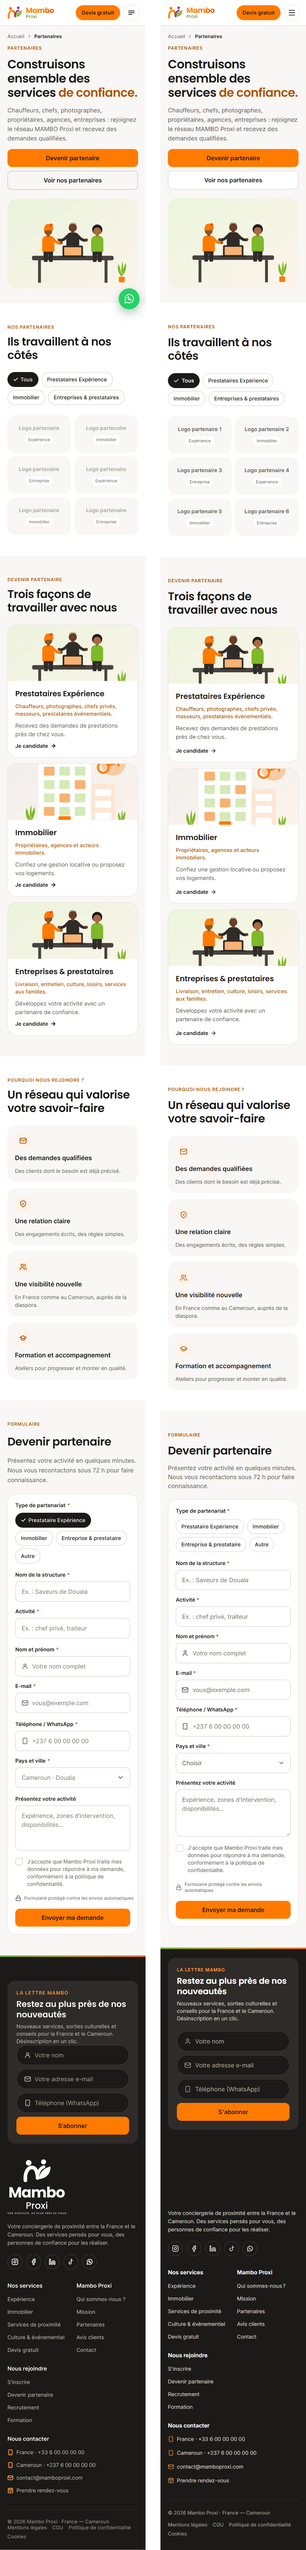
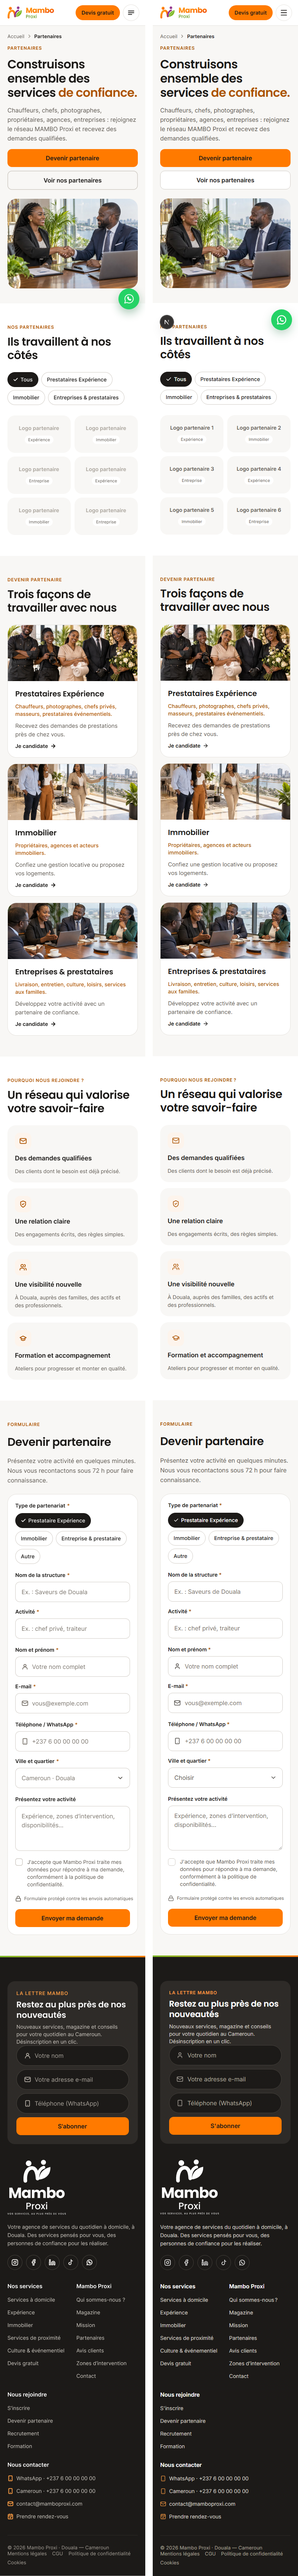
feat(partenaires): photos du héros et des types de partenariat, visibilité à Douala, version anglaise

Changed region(s): [[0.0, 0.0, 1.0, 1.0], [0.25, 0.8736, 0.375, 0.936], [0.4062, 0.5616, 0.4375, 0.5928]]

diff --git a/src/mocks/data/pages.ts b/src/mocks/data/pages.ts
@@ -691,7 +691,13 @@ const partenaires: Page = {
       eyebrow: 'Partenaires',
       title: 'Construisons ensemble des services ==de confiance.==',
       lead: 'Chauffeurs, chefs, photographes, propriétaires, agences, entreprises : rejoignez le réseau MAMBO Proxi et recevez des demandes qualifiées.',
-      visual: visual('equipe'),
+      visual: photo(
+        'equipe',
+        'part-hero',
+        1280,
+        960,
+        'Une partenaire et un responsable de Mambo Proxi se serrent la main autour d’un bureau.',
+      ),
       primaryCta: { label: 'Devenir partenaire', href: '#formulaire', external: false },
       secondaryCta: { label: 'Voir nos partenaires', href: '#partenaires', external: false },
       showWhatsapp: false,
@@ -720,7 +726,7 @@ const partenaires: Page = {
           title: 'Prestataires Expérience',
           subtitle: 'Chauffeurs, photographes, chefs privés, masseurs, prestataires événementiels.',
           text: 'Recevez des demandes de prestations près de chez vous.',
-          visual: visual('equipe'),
+          visual: photo('equipe', 'part-exp', 1536, 864, ''),
           cta: {
             label: 'Je candidate',
             href: '/partenaires?type=PRESTATAIRE_EXPERIENCE#formulaire',
@@ -731,14 +737,14 @@ const partenaires: Page = {
           title: 'Immobilier',
           subtitle: 'Propriétaires, agences et acteurs immobiliers.',
           text: 'Confiez une gestion locative ou proposez vos logements.',
-          visual: visual('logement'),
+          visual: photo('logement', 'immo-recherche', 1536, 1024, ''),
           cta: { label: 'Je candidate', href: '/partenaires?type=IMMOBILIER#formulaire', external: false },
         },
         {
           title: 'Entreprises & prestataires',
           subtitle: 'Livraison, entretien, culture, loisirs, services aux familles.',
           text: 'Développez votre activité avec un partenaire de confiance.',
-          visual: visual('equipe'),
+          visual: photo('equipe', 'part-entreprise', 1536, 864, ''),
           cta: {
             label: 'Je candidate',
             href: '/partenaires?type=ENTREPRISE_PRESTATAIRE#formulaire',
@@ -770,7 +776,7 @@ const partenaires: Page = {
         {
           icon: 'Users',
           title: 'Une visibilité nouvelle',
-          text: 'En France comme au Cameroun, auprès de la diaspora.',
+          text: 'À Douala, auprès des familles, des actifs et des professionnels.',
         },
         {
           icon: 'GraduationCap',
@@ -794,6 +800,140 @@ const partenaires: Page = {
         { title: 'Étude de votre demande' },
         { title: 'Échange avec notre équipe' },
         { title: 'Signature de la charte partenaire' },
+      ],
+    },
+  ],
+};
+
+/** Partenaires en anglais (`?lang=en`) : textes rédigés pour le site. */
+const partenairesEn: Page = {
+  ...partenaires,
+  title: 'Partners',
+  seo: {
+    title: 'Become a MAMBO Proxi partner in Douala',
+    description:
+      'Drivers, chefs, photographers, landlords, agencies, businesses: join the MAMBO Proxi network and receive qualified requests.',
+    ogImageUrl: null,
+    noindex: false,
+  },
+  sections: [
+    {
+      id: 'hero',
+      type: 'hero',
+      enabled: true,
+      variant: 'page',
+      eyebrow: 'Partners',
+      title: 'Let’s build services ==you can trust.==',
+      lead: 'Drivers, chefs, photographers, landlords, agencies, businesses: join the MAMBO Proxi network and receive qualified requests.',
+      visual: photo(
+        'equipe',
+        'part-hero',
+        1280,
+        960,
+        'A partner and a Mambo Proxi manager shake hands across a desk.',
+      ),
+      primaryCta: { label: 'Become a partner', href: '#formulaire', external: false },
+      secondaryCta: { label: 'See our partners', href: '#partenaires', external: false },
+      showWhatsapp: false,
+    },
+    {
+      id: 'partenaires',
+      type: 'dynamic',
+      enabled: true,
+      anchor: 'partenaires',
+      tone: 'light',
+      source: 'partners-grid',
+      eyebrow: 'Our partners',
+      title: 'They work alongside us',
+    },
+    {
+      id: 'types',
+      type: 'cardGrid',
+      enabled: true,
+      tone: 'muted',
+      layout: 'illustrated',
+      columns: 3,
+      eyebrow: 'Become a partner',
+      title: 'Three ways to work with us',
+      items: [
+        {
+          title: 'Experience providers',
+          subtitle: 'Drivers, photographers, private chefs, massage therapists, event providers.',
+          text: 'Receive service requests close to where you are.',
+          visual: photo('equipe', 'part-exp', 1536, 864, ''),
+          cta: {
+            label: 'Apply',
+            href: '/partenaires?type=PRESTATAIRE_EXPERIENCE#formulaire',
+            external: false,
+          },
+        },
+        {
+          title: 'Real estate',
+          subtitle: 'Landlords, agencies and property professionals.',
+          text: 'Entrust us with property management or list your homes.',
+          visual: photo('logement', 'immo-recherche', 1536, 1024, ''),
+          cta: { label: 'Apply', href: '/partenaires?type=IMMOBILIER#formulaire', external: false },
+        },
+        {
+          title: 'Businesses & providers',
+          subtitle: 'Delivery, cleaning, culture, leisure, family services.',
+          text: 'Grow your business with a partner you can trust.',
+          visual: photo('equipe', 'part-entreprise', 1536, 864, ''),
+          cta: {
+            label: 'Apply',
+            href: '/partenaires?type=ENTREPRISE_PRESTATAIRE#formulaire',
+            external: false,
+          },
+        },
+      ],
+    },
+    {
+      id: 'avantages',
+      type: 'cardGrid',
+      enabled: true,
+      tone: 'light',
+      layout: 'cards',
+      columns: 4,
+      eyebrow: 'Why join us?',
+      title: 'A network that values your skills',
+      items: [
+        {
+          icon: 'Mail',
+          title: 'Qualified requests',
+          text: 'Clients whose needs are already clearly defined.',
+        },
+        {
+          icon: 'ShieldCheck',
+          title: 'A clear relationship',
+          text: 'Written commitments, simple rules.',
+        },
+        {
+          icon: 'Users',
+          title: 'New visibility',
+          text: 'In Douala, among families, working people and professionals.',
+        },
+        {
+          icon: 'GraduationCap',
+          title: 'Training and support',
+          text: 'Workshops to grow and raise your standards.',
+        },
+      ],
+    },
+    {
+      id: 'formulaire',
+      type: 'dynamic',
+      enabled: true,
+      anchor: 'formulaire',
+      tone: 'muted',
+      source: 'partner-form',
+      eyebrow: 'Application form',
+      title: 'Become a partner',
+      lead: 'Tell us about your business in a few minutes. We will get back to you within 72 hours to get to know you.',
+      note: 'What happens next?',
+      items: [
+        { title: 'We review your application' },
+        { title: 'A conversation with our team' },
+        { title: 'Signing the partner charter' },
       ],
     },
   ],
@@ -1431,6 +1571,7 @@ export const pages: Partial<Record<Page['key'], Page>> = {
 export const pagesEn: Partial<Record<Page['key'], Page>> = {
   'qui-sommes-nous': quiSommesNousEn,
   mission: missionEn,
+  partenaires: partenairesEn,
   magazine: magazineEn,
   'zones-d-intervention': zonesEn,
 };

diff --git a/src/mocks/handlers/partners.ts b/src/mocks/handlers/partners.ts
@@ -1,11 +1,19 @@
 import { http, HttpResponse } from 'msw';
 import type { Partner } from '@/lib/api/schema';
+import { langOf } from '../data/catalogue';
 
 const LABELS = {
   EXPERIENCE: 'Prestataires Expérience',
   IMMOBILIER: 'Immobilier',
   ENTREPRISES: 'Entreprises & prestataires',
 } as const;
+
+/** Libellés des catégories servis en anglais (`?lang=en`). */
+const LABELS_EN: Record<keyof typeof LABELS, string> = {
+  EXPERIENCE: 'Experience providers',
+  IMMOBILIER: 'Real estate',
+  ENTREPRISES: 'Businesses & providers',
+};
 
 /** Partenaires simulés : les 8 tuiles de la maquette Partenaires (logos à fournir). */
 const ORDER = [
@@ -31,8 +39,12 @@ export const partners: Partner[] = ORDER.map((category, index) => ({
 export const partnerHandlers = [
   http.get('*/v1/partners', ({ request }) => {
     const category = new URL(request.url).searchParams.get('category');
+    const localized =
+      langOf(request) === 'en'
+        ? partners.map((partner) => ({ ...partner, categoryLabel: LABELS_EN[partner.category] }))
+        : partners;
     return HttpResponse.json(
-      category ? partners.filter((partner) => partner.category === category) : partners,
+      category ? localized.filter((partner) => partner.category === category) : localized,
     );
   }),
 ];
